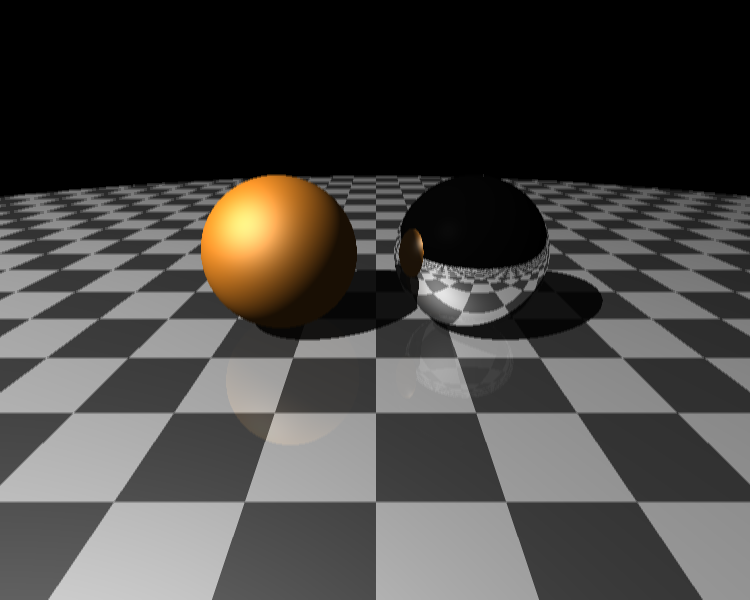
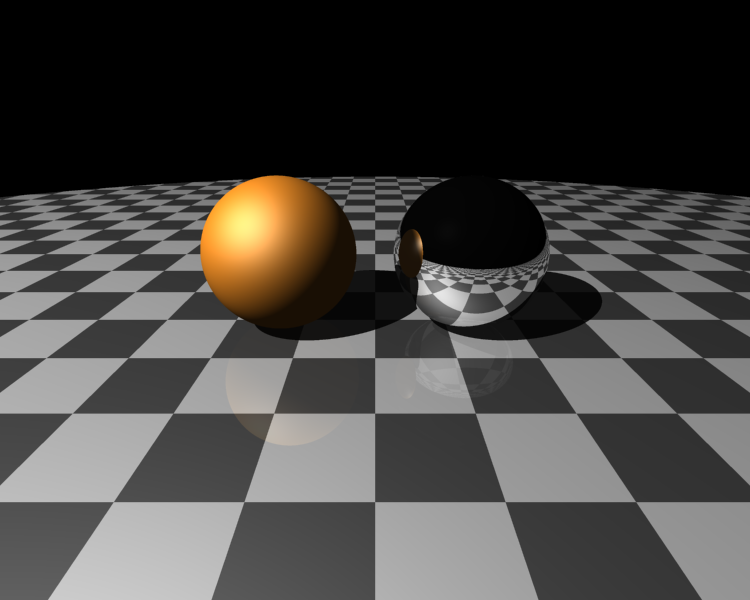
Increased pixel sampling rate for less aliasing

diff --git a/Ray-Tracing/Components/Renderer.cpp b/Ray-Tracing/Components/Renderer.cpp
@@ -105,9 +105,13 @@ int Renderer::processSection(void* data) {
 	Renderer* r = bounds->renderer;
 	for (int y = bounds->yMin; y <= bounds->yMax; y++) {
 		for (int x = 0; x < r->_image->w; x++) {
-			Ray ray = r->_camera->getRay(x, r->_image->h - y);
-			r->_intermediate[y * r->_image->w + x] = r->traceRay(ray, r->_numBounces);
-			// ((Uint32*)r->_image->pixels)[y * r->_image->w + x] = convertVectorToColor(r->traceRay(ray, 3));
+			std::vector<Ray> rays = r->_camera->getRays(x, r->_image->h - y);
+			glm::vec3 color(0.0f);
+			for (Ray& ray : rays) {
+				color += r->traceRay(ray, r->_numBounces);
+			}
+			color /= rays.size();
+			((Uint32*)r->_image->pixels)[y * r->_image->w + x] = convertVectorToColor(color);
 		}
 	}
 	delete bounds;
@@ -213,26 +217,6 @@ bool Renderer::configure(const std::string& filename) {
 	return true;
 }
 
-glm::vec3 Renderer::antiAlias(int x, int y) const {
-	glm::vec3 res(0, 0, 0);
-	int count = 0;
-	for (int i = -1; i <= 1; i++) {
-		for (int j = -1; j <= 1; j++) {
-			int tx = x + i;
-			int ty = y + j;
-			if (tx < 0 || ty < 0 || tx >= _image->w || ty >= _image->h) {
-				continue;
-			}
-			res += _intermediate[ty * _image->w + x];
-			count++;
-		}
-	}
-	res.r /= count;
-	res.g /= count;
-	res.b /= count;
-	return res;
-}
-
 bool Renderer::loadScene(const std::string& filename) {
 	// Configure Renderer from scene description
 	if (!this->configure(filename)) {
@@ -245,36 +229,31 @@ bool Renderer::loadScene(const std::string& filename) {
 		return false;
 	}
 	_image = SDL_GetWindowSurface(_window);
-	_intermediate.resize(_width * _height);
 	return true;
 }
 
 bool Renderer::render() {
 	using namespace std::chrono;
 	high_resolution_clock clock;
+	int numTrials = 50;
 	steady_clock::time_point start = clock.now();
-	SDL_Thread* threads[NUM_THREADS];
-	const int span = _image->h / NUM_THREADS;
-	for (int i = 0; i < NUM_THREADS; i++) {
-		SectionBounds* data = new SectionBounds(i * span, ((i + 1) * span) - 1, this);
-		threads[i] = SDL_CreateThread(Renderer::processSection, "Section Thread", data);
-		if (!threads[i]) {
-			SDL_Log("SDL failed to create thread.");
-			std::exit(1);
+	for (int i = 0; i < numTrials; i++) {
+		SDL_Thread* threads[NUM_THREADS];
+		const int span = _image->h / NUM_THREADS;
+		for (int i = 0; i < NUM_THREADS; i++) {
+			SectionBounds* data = new SectionBounds(i * span, ((i + 1) * span) - 1, this);
+			threads[i] = SDL_CreateThread(Renderer::processSection, "Section Thread", data);
+			if (!threads[i]) {
+				SDL_Log("SDL failed to create thread.");
+				std::exit(1);
+			}
+		}
+		for (int i = 0; i < NUM_THREADS; i++) {
+			SDL_WaitThread(threads[i], NULL);
 		}
 	}
-	for (int i = 0; i < NUM_THREADS; i++) {
-		SDL_WaitThread(threads[i], NULL);
-	}
-	for (int y = 0; y < _image->h; y++) {
-		for (int x = 0; x < _image->w; x++) {
-			
-			((Uint32*)_image->pixels)[y * _image->w + x] = convertVectorToColor(antiAlias(x, y));
-		}
-	}
-
 	steady_clock::time_point end = clock.now();
-	SDL_Log("Render Time - %f ms\n", duration<float, std::milli>(end - start).count());
+	SDL_Log("Render Time - %f ms\n", duration<float, std::milli>(end - start).count() / numTrials);
 	SDL_ShowWindow(_window);
 	return true;
 }

diff --git a/Ray-Tracing/Components/Camera.cpp b/Ray-Tracing/Components/Camera.cpp
@@ -35,6 +35,18 @@ Ray OrthoCamera::getRay(int pixelX, int pixelY) const {
 	return Ray(_position + (x * _right) + (y * _up), -1.0f * _backward, _renderDist);
 }
 
+std::vector<Ray> OrthoCamera::getRays(int pixelX, int pixelY) const {
+	std::vector<Ray> rays;
+	for (float i = 0.0f; i <= 1.0f; i += 0.25f) {
+		for (float j = 0.0f; j <= 1.0f; j += 0.25f) {
+			float x = (_imgViewX / -200.0f) + ((float(pixelX) + i) / 100.0f);
+			float y = (_imgViewY / -200.0f) + ((float(pixelY) + j) / 100.0f);
+			rays.push_back(Ray(_position + (x * _right) + (y * _up), -1.0f * _backward, _renderDist));
+		}
+	}
+	return rays;
+}
+
 /* Perspective Camera Class */
 
 PerspCamera::PerspCamera(const glm::vec3& position, float focalDist, int x, int y, float renderDist) : Camera(position, x, y, renderDist), _viewpoint(_position + (_backward * focalDist)), _focalDist(focalDist) {
@@ -52,6 +64,19 @@ Ray PerspCamera::getRay(int pixelX, int pixelY) const {
 	float y = (_imgViewY / -200.0f) + (pixelY / 100.0f);
 	glm::vec3 start = _position + (x * _right) + (y * _up);
 	return Ray(_viewpoint, start - _viewpoint, _renderDist);
+}
+
+std::vector<Ray> PerspCamera::getRays(int pixelX, int pixelY) const {
+	std::vector<Ray> rays;
+	for (float i = 0.0f; i <= 1.0f; i += 0.25f) {
+		for (float j = 0.0f; j <= 1.0f; j += 0.25f) {
+			float x = (_imgViewX / -200.0f) + ((pixelX + i) / 100.0f);
+			float y = (_imgViewY / -200.0f) + ((pixelY + j) / 100.0f);
+			glm::vec3 start = _position + (x * _right) + (y * _up);
+			rays.push_back(Ray(_viewpoint, start - _viewpoint, _renderDist));
+		}
+	}
+	return rays;
 }
 
 #ifdef _DEBUG

diff --git a/Ray-Tracing/Components/Camera.h b/Ray-Tracing/Components/Camera.h
@@ -7,6 +7,7 @@ class Camera;
 class OrthoCamera;
 class PerspCamera;
 
+#include <vector>
 #include "glm.hpp"
 #include "Entity.h"
 #include "Ray.h"
@@ -26,6 +27,7 @@ public:
 	virtual ~Camera();
 
 	virtual Ray getRay(int pixelX, int pixelY) const = 0;
+	virtual std::vector<Ray> getRays(int pixelX, int pixelY) const = 0;
 	inline float getMaxRenderDist() const { return _renderDist; }
 #ifdef _DEBUG
 	virtual void debug() const;
@@ -38,6 +40,7 @@ public:
 	OrthoCamera(const glm::vec3& position, int x, int y, float renderDist = INFINITY);
 	
 	virtual Ray getRay(int pixelX, int pixelY) const;
+	virtual std::vector<Ray> getRays(int pixelX, int pixelY) const;
 };
 
 class PerspCamera : public Camera {
@@ -49,6 +52,7 @@ public:
 	
 	virtual PerspCamera& setOrientation(float yaw, float pitch, float roll = 0.0f);
 	virtual Ray getRay(int pixelX, int pixelY) const;
+	virtual std::vector<Ray> getRays(int pixelX, int pixelY) const;
 #ifdef _DEBUG
 	virtual void debug() const;
 #endif

diff --git a/Ray-Tracing/Components/Renderer.h b/Ray-Tracing/Components/Renderer.h
@@ -6,7 +6,6 @@
 class Renderer;
 
 #include <SDL.h>
-#include <string>
 #include <vector>
 #include "Camera.h"
 #include "Light.h"
@@ -25,7 +24,6 @@ protected:
 	glm::vec3 _background_color;
 	SDL_Window* _window;
 	SDL_Surface* _image;
-	std::vector<glm::vec3> _intermediate;
 	Camera* _camera;
 	std::vector<Surface*> _objects;
 	std::vector<Light*> _lights;
@@ -40,7 +38,6 @@ protected:
 	bool configure(const std::string& filename);
 	glm::vec3 traceRay(const Ray& ray, int bounces = 1, Surface* source = nullptr);
 	static int processSection(void* data);
-	glm::vec3 antiAlias(int x, int y) const;
 public:
 	Renderer();
 	~Renderer();

diff --git a/Ray-Tracing/stdafx.h b/Ray-Tracing/stdafx.h
@@ -10,7 +10,7 @@
 #include <chrono>
 #include <algorithm>
 
-#ifdef _DEBUG
+#if _DEBUG
 #include <iostream>
 #endif
 

diff --git a/README.md b/README.md
@@ -3,22 +3,24 @@ This is my implementation of a ray tracing program that is capable of rendering 
 
 ## Latest Working Version:
 
-The files containing the scene description used to render each of the following images is in the ```Ray-Tracing/scenes``` folder
+The files containing the scene description used to render each of the following images is in the ```Ray-Tracing/scenes``` folder.
+Each pixel samples 25 rays and each ray has a maximum depth of 16 bounces.
+Rendered on a Intel Core i5, 2 GHz
 
 ### Scene 1
 
 ![alt text](https://github.com/jmielc2/Ray-Tracing/blob/master/docs/rendered-scene-1.png?raw=true)
 
-Render Time (Release Version): 40.251438 ms
+Render Time (Release Version): 836.007446 ms
 
 ### Scene 2
 
 ![alt text](https://github.com/jmielc2/Ray-Tracing/blob/master/docs/rendered-scene-2.png?raw=true)
 
-Render Time (Release Version): 26.895424 ms
+Render Time (Release Version): 513.743896 ms
 
 ### Scene 3
 
 ![alt text](https://github.com/jmielc2/Ray-Tracing/blob/master/docs/rendered-scene-3.png?raw=true)
 
-Render Time  (Release Version): 48.936584 ms
+Render Time  (Release Version): 1155.335083.055176 ms
